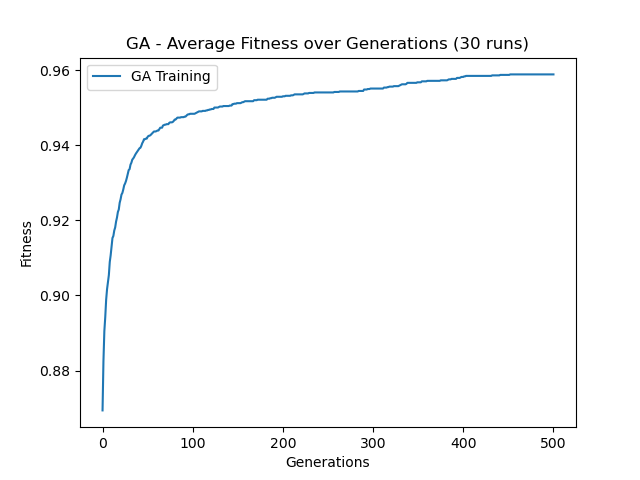
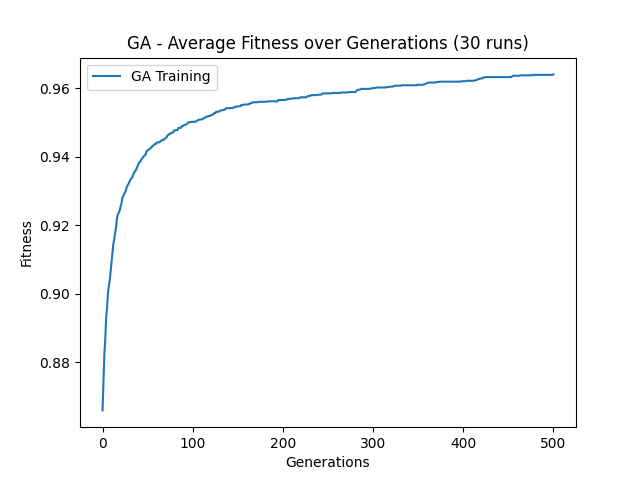
last dance

diff --git a/main.py b/main.py
@@ -54,9 +54,13 @@ if __name__=='__main__':
 
 # Best params from gridsearch: initialize_population_he, tournament_selection,
 # one_point_crossover, gaussian_mutation, mutation_rate=0.1 → avg_fitness=0.9764
+ga_results = pd.DataFrame(columns=['run', 'train_fitness', 'test_fitness'])
 
 histories_ga, test_fitnesses_ga = [], []
 for i in range(30):
+    random.seed(i)
+    np.random.seed(i)
+
     best_sol, history = genetic_algorithm(
         initialization=initialize_population_he,
         fitness_function=fitness_function,
@@ -74,6 +78,16 @@ for i in range(30):
     test_fit = fitness_function(best_sol, mlp, layer_sizes, X_test, y_test)
     test_fitnesses_ga.append(test_fit)
     histories_ga.append(history)
+
+    new_row = pd.DataFrame([{
+            'run': i + 1,
+            'train_fitness': history[-1],
+            'test_fitness': test_fit
+        }])
+    
+    ga_results = pd.concat([ga_results, new_row], ignore_index=True)
+    ga_results.to_csv('ga_results.csv', index=False)
+
     print(f'GA: {i+1}/30 runs completed')
 
 mean_history_ga = np.mean(histories_ga, axis=0)
